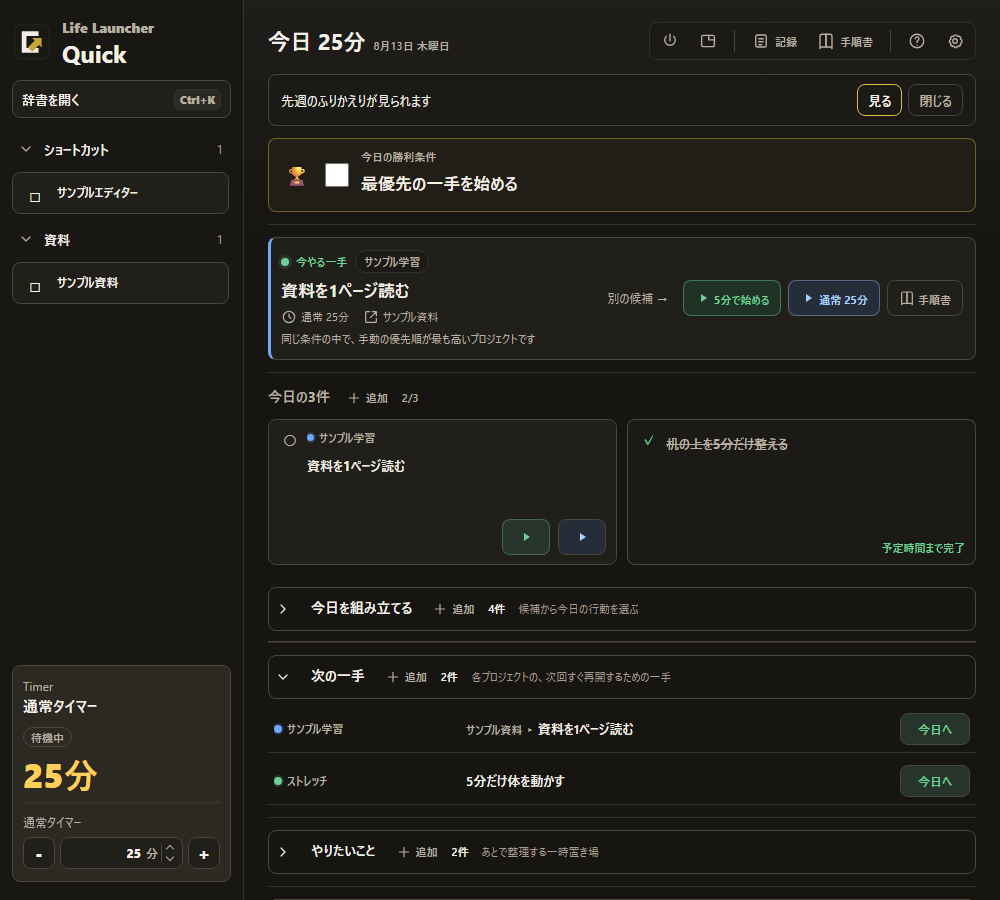
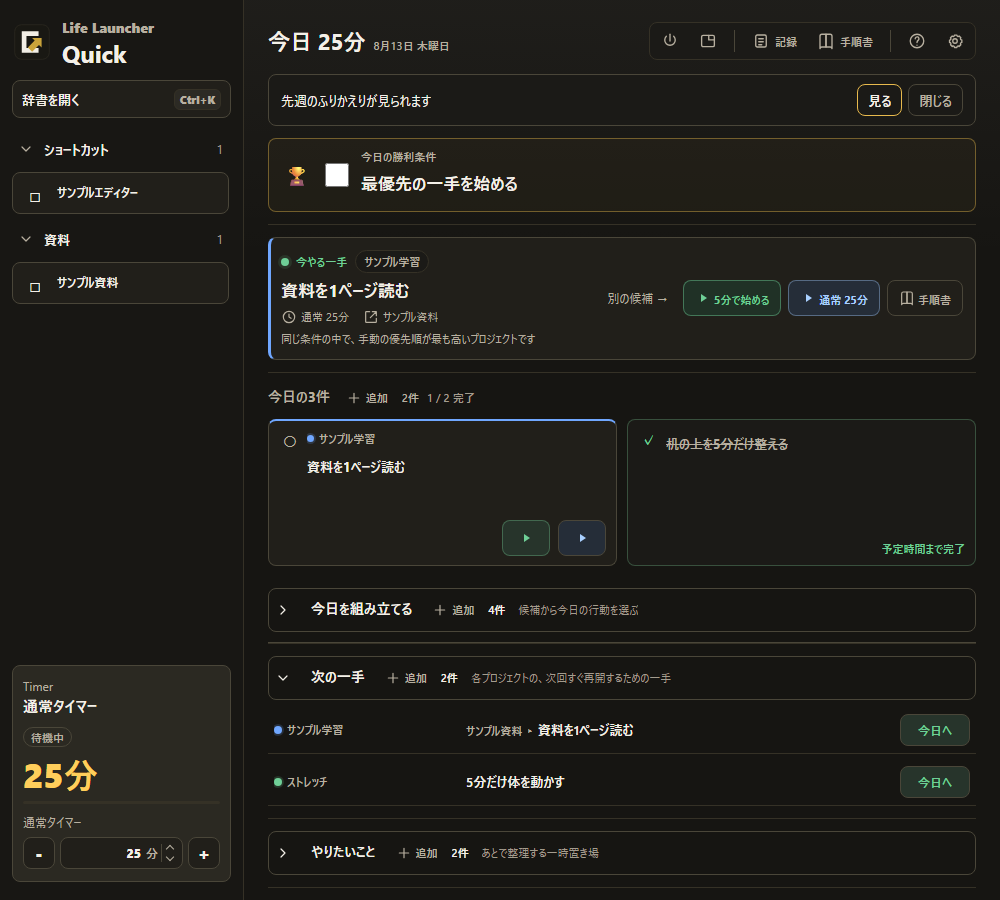
fix: clarify Today progress and project identity

diff --git a/src/App.tsx b/src/App.tsx
@@ -6008,6 +6008,9 @@ function DashboardApp() {
   }
 
   const todayRemaining = TODAY_ITEM_LIMIT - config.today.items.length;
+  const todayCompletedCount = config.today.items.filter((item) => item.done).length;
+  const todayAllCompleted =
+    config.today.items.length > 0 && todayCompletedCount === config.today.items.length;
   const victoryText = config.today.victory.text.trim();
   const victoryDone = Boolean(victoryText && config.today.victory.done);
   const victorySuggestions = uniqueSuggestions(
@@ -7688,9 +7691,18 @@ function DashboardApp() {
                       <UiIcon name="add" size={16} />
                       追加
                     </button>
-                    <span>
-                      {config.today.items.length}/{TODAY_ITEM_LIMIT}
-                    </span>
+                    <span>{config.today.items.length}件</span>
+                    {config.today.items.length > 0 && (
+                      <span
+                        className={
+                          todayAllCompleted
+                            ? "todayCompletionSummary todayCompletionSummary--complete"
+                            : "todayCompletionSummary"
+                        }
+                      >
+                        {todayCompletedCount} / {config.today.items.length} 完了
+                      </span>
+                    )}
                   </div>
                 </div>
                 <div className="todayGrid">
@@ -7718,6 +7730,11 @@ function DashboardApp() {
                           .filter(Boolean)
                           .join(" ")}
                         data-today-index={index}
+                        data-project-color={
+                          project
+                            ? resolveProjectColorId(project.id, project.colorId)
+                            : undefined
+                        }
                         key={todaySourceKey(item, index)}
                         onContextMenu={(event) => {
                           event.preventDefault();
@@ -8358,7 +8375,7 @@ function DashboardApp() {
 
                 {inboxOpen && (
                   <div className="inboxBody">
-                    {inboxAddOpen ? (
+                    {inboxAddOpen && (
                       <form
                         className="addRow inboxAddRow"
                         onSubmit={(event) => {
@@ -8399,14 +8416,6 @@ function DashboardApp() {
                           <UiIcon name="close" size={16} />
                         </button>
                       </form>
-                    ) : (
-                      <button
-                        className="inboxAddPrompt"
-                        onClick={() => setInboxAddOpen(true)}
-                        type="button"
-                      >
-                        <UiIcon name="add" size={16} /> 追加
-                      </button>
                     )}
                     <div className="inboxList">
                       {config.inbox.map((item, index) => (

diff --git a/tests/visual/phase6-main.spec.ts b/tests/visual/phase6-main.spec.ts
@@ -97,6 +97,9 @@ test("Main hierarchy and Today3 three-column layout match Phase 6", async ({ pag
   expect(
     Math.max(...boxes.map((box) => box.width)) - Math.min(...boxes.map((box) => box.width)),
   ).toBeLessThan(2);
+  await expect(cards.first()).toHaveAttribute("data-project-color", "blue");
+  await expect(cards.first()).toHaveCSS("border-top-color", "rgb(112, 167, 255)");
+  await expect(cards.nth(1)).not.toHaveAttribute("data-project-color");
   expect(await page.evaluate(() => document.documentElement.scrollWidth)).toBeLessThanOrEqual(
     await page.evaluate(() => document.documentElement.clientWidth),
   );
@@ -247,8 +250,11 @@ test("NextStep and Wishlist use compact non-destructive Today actions", async ({
   await expect(page.locator(".toast").last()).toContainText("既にあります");
   expect((await currentConfig(page)).today.items).toHaveLength(1);
 
-  await page.locator(".inboxBand .disclosure").click();
-  await page.locator(".inboxRow .moveTodayButton").first().click();
+  const wishlist = page.locator(".inboxBand");
+  await wishlist.locator(".disclosure").click();
+  await expect(wishlist.locator(".inboxAddPrompt")).toHaveCount(0);
+  await expect(wishlist.getByRole("button", { name: "やりたいことを追加" })).toBeVisible();
+  await wishlist.locator(".inboxRow .moveTodayButton").first().click();
   await projects.locator(".nextStepTodayButton").nth(1).click();
   config = await currentConfig(page);
   expect(config.today.items).toHaveLength(3);

diff --git a/src/styles.css b/src/styles.css
@@ -6794,6 +6794,16 @@ input[type="number"]::-webkit-inner-spin-button {
   font-variant-numeric: tabular-nums;
 }
 
+.sectionHeadingActions > .todayCompletionSummary {
+  color: var(--text-muted-readable);
+  white-space: nowrap;
+}
+
+.sectionHeadingActions > .todayCompletionSummary--complete {
+  color: var(--good);
+  font-weight: 650;
+}
+
 .sectionAddButton {
   min-height: 26px;
   font-size: var(--dashboard-font-meta);
@@ -7003,29 +7013,6 @@ input[type="number"]::-webkit-inner-spin-button {
 .inboxBody {
   display: grid;
   gap: 8px;
-}
-
-.inboxAddPrompt {
-  width: 100%;
-  min-height: 40px;
-  display: inline-flex;
-  align-items: center;
-  gap: 5px;
-  border: 1px dashed var(--line);
-  border-radius: var(--radius);
-  padding: 8px 12px;
-  background: transparent;
-  color: var(--muted);
-  font-size: var(--dashboard-font-meta);
-  font-weight: 600;
-  text-align: left;
-}
-
-.inboxAddPrompt:hover,
-.inboxAddPrompt:focus-visible {
-  border-color: var(--muted);
-  background: var(--control-neutral-hover-bg);
-  color: var(--text);
 }
 
 .inboxRow {
@@ -7242,6 +7229,10 @@ input[type="number"]::-webkit-inner-spin-button {
 .todayRow--complete {
   border-color: rgba(117, 196, 143, 0.32);
   background: var(--surface-soft);
+}
+
+.todayRow[data-project-color] {
+  border-top: 2px solid var(--project-color);
 }
 
 .todayCompletionStatus {

diff --git a/tests/visual/phase6-readiness.spec.ts b/tests/visual/phase6-readiness.spec.ts
@@ -105,6 +105,11 @@ for (const activeCount of [0, 1, 2, 3]) {
       await expect(page.locator(".toast").last()).toContainText("3件まで");
       await expect(page.locator(".todayRow")).toHaveCount(3);
     }
+    const completionSummary = page.locator(".todayCompletionSummary");
+    if (activeCount === 0) await expect(completionSummary).toHaveCount(0);
+    else {
+      await expect(completionSummary).toHaveText(`0 / ${activeCount} 完了`);
+    }
     await expect(page.getByRole("button", { name: /次の3件を選ぶ/ })).toHaveCount(0);
   });
 }
@@ -118,6 +123,11 @@ for (const completedCount of [0, 1, 2, 3]) {
     await expect(
       page.locator(".todayCompletionStatus:not(.todayCompletionStatus--complete)"),
     ).toHaveCount(3 - completedCount);
+    const summary = page.locator(".todayCompletionSummary");
+    await expect(summary).toHaveText(`${completedCount} / 3 完了`);
+    await expect(summary).toHaveClass(
+      completedCount === 3 ? /todayCompletionSummary--complete/ : /todayCompletionSummary$/,
+    );
     await expect(page.getByRole("button", { name: /次の3件を選ぶ/ })).toHaveCount(
       completedCount === 3 ? 1 : 0,
     );

diff --git a/docs/spec/current-spec.md b/docs/spec/current-spec.md
@@ -227,12 +227,13 @@ Main Window
 ## 10. 今日の3件
 
 - 当日に取り組む項目は最大3件。
-- 見出しの隣に `+ 追加`、`N/3` の順で表示する。
+- 見出しの隣に `+ 追加`、`N件`、`完了数 / 現在件数 完了` の順で表示する。完了表示は全件完了時だけ緑にする。
 - 3件時は横3列を保ち、常設の開始操作を収めながら過剰な高さと余白を持たないcompact cardで表示する。
 - 3件制限を解除する設定や回避経路は持たない。
 - 未完了項目を翌日へ自動繰り越ししない。
 - チェックボックスと項目名を表示する。
 - プロジェクトがある場合、色付きドットと名称を本文の基準線に揃える。
+- プロジェクトがあるカードは、上端の細線にも同じプロジェクト色を使う。未設定カードは中立線のままにする。
 - 任意の「きっかけ」を持てる。
 - きっかけ追加はホバー・フォーカス中だけ現れ、チェック後に不要な状態を残さない。
 - 最終行に重複した罫線を表示しない。
@@ -263,7 +264,7 @@ Main Window
 - 後で整理する内容の一時置き場で、初期状態は折りたたむ。
 - 見出し補足は「あとで整理する一時置き場」。
 - 小さな追加ボタンと件数は見出し枠内に置く。
-- 展開時は一覧先頭に全幅の追加行を表示する。
+- 展開本文には常設の追加行を置かない。見出しの追加ボタンを押した時だけ、一覧先頭に入力フォームを表示する。
 - 項目名は今日の3件より少し抑えた濃度で可読性を保つ。
 - D&Dで並べ替え、ゴーストと黄色挿入線を表示する。
 - 右クリックから上へ移動、下へ移動、編集、削除を行う。

diff --git a/docs/phase6/workreports/p6-03-report.md b/docs/phase6/workreports/p6-03-report.md
@@ -57,6 +57,9 @@ The dictionary now opens with focus on its first tile. While the Dictionary wind
 - Removed a double focus reset that could cancel the first Dictionary arrow-key move.
 - Kept Dictionary arrow navigation active after its internal tile focus is cleared, without intercepting editable controls or other windows.
 - Matched Today Builder candidate actions to the green `今日へ` control and reduced Today3 card height and internal whitespace.
+- Removed the persistent Wishlist body add prompt while keeping its header add action and focused inline form.
+- Split Today3 item count from its visible completion summary and highlighted only the all-complete state.
+- Added the existing project color as a thin top border on linked Today3 cards; unlinked cards keep the neutral border.
 
 ## Category bug
 
